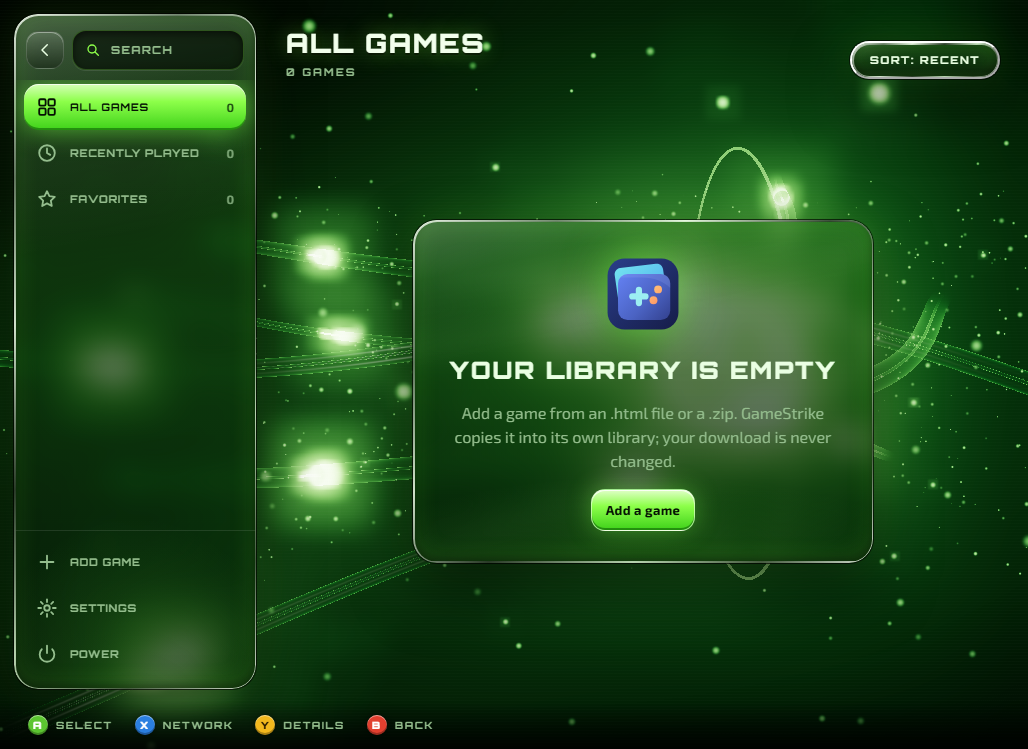
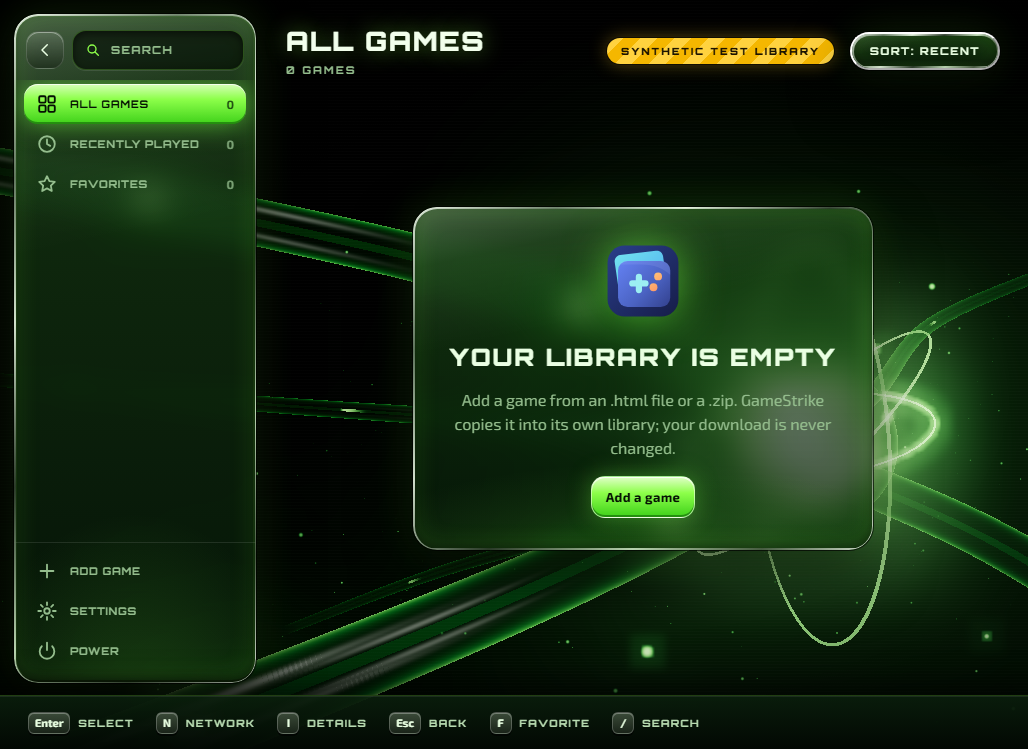
Refresh README screenshots from the second-pass CI captures
Captures from Cross-platform checks run 39300441701 (WebGL on all three
systems): the darker scene with its core and glass conduits, box art,
the lifted focus, controller prompts, the detail hero, and the
synthetic-test badge.

diff --git a/README.md b/README.md
@@ -58,16 +58,16 @@ Everything in this section is implemented in this repository and covered by the 
 
 ## Screenshots
 
-Every launcher image below was rendered by the real `gamestrike-launcher` in GitHub Actions ([Cross-platform checks run 39258622798](https://github.com/Gerbzz/GameStrike/actions/runs/39258622798)) through the `--capture-preview` option: WebView2 on Windows, WebKitGTK under Xvfb on Linux, and WKWebView on macOS. Each capture's log reports that WebGL drew the backdrop at the "high" quality step on all three systems. Captures put the camera at its station and render still frames, so the light sweep and camera flights are not shown. Frame rates were not measured; CI runners are virtual machines, and the macOS runner's screen crops its captures to 1024 × 645. Every game shown is a labeled **synthetic test fixture** with a generated cover; no third-party game or art appears. They are not mockups.
+Every launcher image below was rendered by the real `gamestrike-launcher` in GitHub Actions ([Cross-platform checks run 39300441701](https://github.com/Gerbzz/GameStrike/actions/runs/39300441701)) through the `--capture-preview` option: WebView2 on Windows, WebKitGTK under Xvfb on Linux, and WKWebView on macOS. Each capture's log reports that WebGL drew the backdrop at the "high" quality step on all three systems. Captures put the camera at its station and render still frames, so camera flights are not shown and the light sweep appears as a still highlight. Frame rates were not measured; CI runners are virtual machines, and the macOS runner's screen crops its captures to 1024 × 645. Every game shown is from a library marked **synthetic test data** (hence the badge) with generated box art or generated images; no third-party game or art appears. They are not mockups.
 
 | | |
 | --- | --- |
-| ![Focused cover lifted toward the camera with a chrome and green rim while the other covers recede](docs/screenshots/focus.png) **Focused cover** (Windows), lifted with a chrome and glow rim. | ![Detail panel flown in from the right with the cover, facts, and actions, the library turned away behind it](docs/screenshots/detail.png) **Game details** (Linux). The camera and library turn as the panel flies in. |
-| ![Startup: the GameStrike mark in front of the glowing core](docs/screenshots/boot.png) **Startup** (Linux), near its end. | ![Network consent dialog over the library](docs/screenshots/network-dialog.png) **Network consent** (macOS). Offline is the default. |
-| ![Favorites filter showing two games](docs/screenshots/favorites.png) **Favorites** filter (Windows). | ![Sidebar collapsed to icons beside a wider grid](docs/screenshots/collapsed.png) **Collapsed sidebar** (Linux). |
-| ![Search results for orbit](docs/screenshots/search.png) **Search** (macOS). | ![About dialog with the GameStrike mark and the PWDS publisher logo](docs/screenshots/about.png) **About** (Linux), with the publisher credit. |
-| ![Empty library with an Add a game button](docs/screenshots/empty-library.png) **First launch** (Windows). | ![Library at the 880 by 620 minimum window size](docs/screenshots/minimum-880x620.png) **Minimum window size**, 880 × 620 (Linux). |
-| ![Player window titled Save Counter (Synthetic Test), GameStrike, Offline, showing localStorage points 2 and IndexedDB opens 1](docs/screenshots/player-offline-save-counter.png) **A game in its own offline player window** (Windows, from the manual run at `c888e7e`; the player is unchanged). | |
+| ![The focused cover lifted toward the camera with a chrome and green rim and a light-sweep highlight, while the other covers shrink and dim](docs/screenshots/focus.png) **Focused cover** (Linux): it lifts toward the camera and the wall recedes. Compare with the library view above. | ![The same kind of view with controller prompts A, X, Y, B in the prompt strip](docs/screenshots/controller.png) **Controller prompts** (Windows): after pad input the strip shows A, X, Y, B instead of keys. |
+| ![Detail panel with the box art and its reflection, the title, and a large Play offline button over a glass body of facts and actions, the library turned away behind it](docs/screenshots/detail.png) **Game details** (Linux). The camera and library turn as the panel flies in. | ![Startup: the GameStrike mark in front of the glowing core, with glass conduits and GAMESTRIKE by PWDS](docs/screenshots/boot.png) **Startup** (Linux), near its end. |
+| ![Network consent dialog over the library](docs/screenshots/network-dialog.png) **Network consent** (macOS). Offline is the default. | ![Favorites filter showing two games](docs/screenshots/favorites.png) **Favorites** filter (Windows). |
+| ![Sidebar collapsed to icons beside a wider grid](docs/screenshots/collapsed.png) **Collapsed sidebar** (Linux). | ![Search results for orbit](docs/screenshots/search.png) **Search** (macOS). |
+| ![About dialog with the GameStrike mark and the PWDS publisher logo](docs/screenshots/about.png) **About** (Linux), with the publisher credit. | ![Empty library with an Add a game button](docs/screenshots/empty-library.png) **First launch** (Windows). |
+| ![Library at the 880 by 620 minimum window size](docs/screenshots/minimum-880x620.png) **Minimum window size**, 880 × 620 (Linux). | ![Player window titled Save Counter (Synthetic Test), GameStrike, Offline, showing localStorage points 2 and IndexedDB opens 1](docs/screenshots/player-offline-save-counter.png) **A game in its own offline player window** (Windows, from the manual run at `c888e7e`; the player is unchanged). |
 
 Screenshots of earlier designs are kept in [docs/history](docs/history).
 
